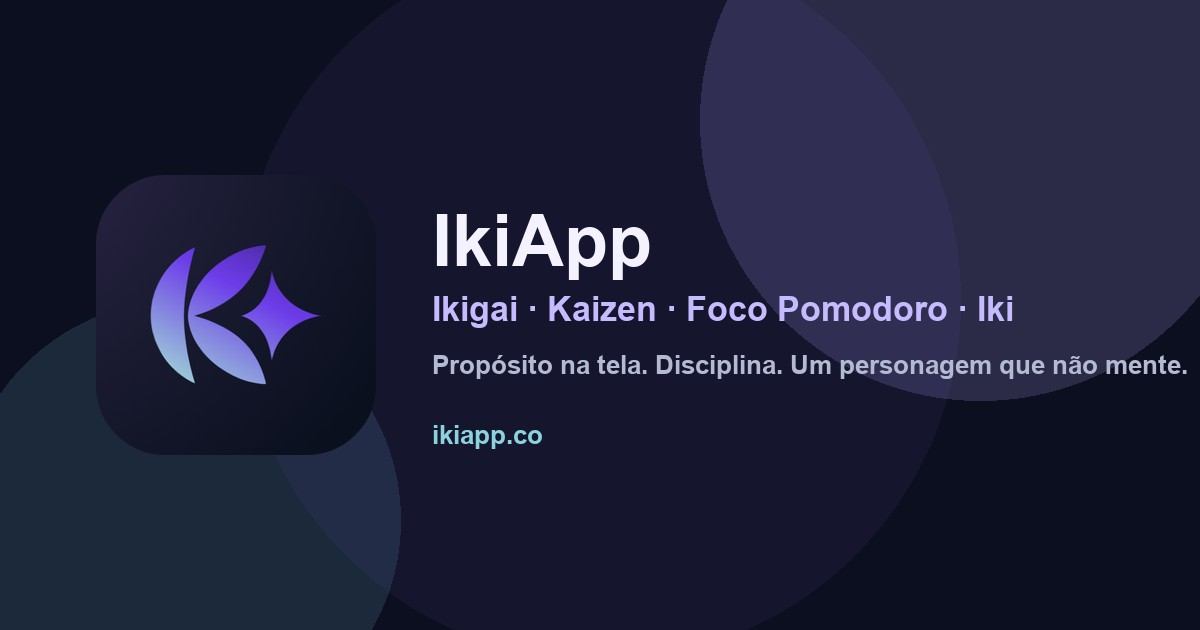
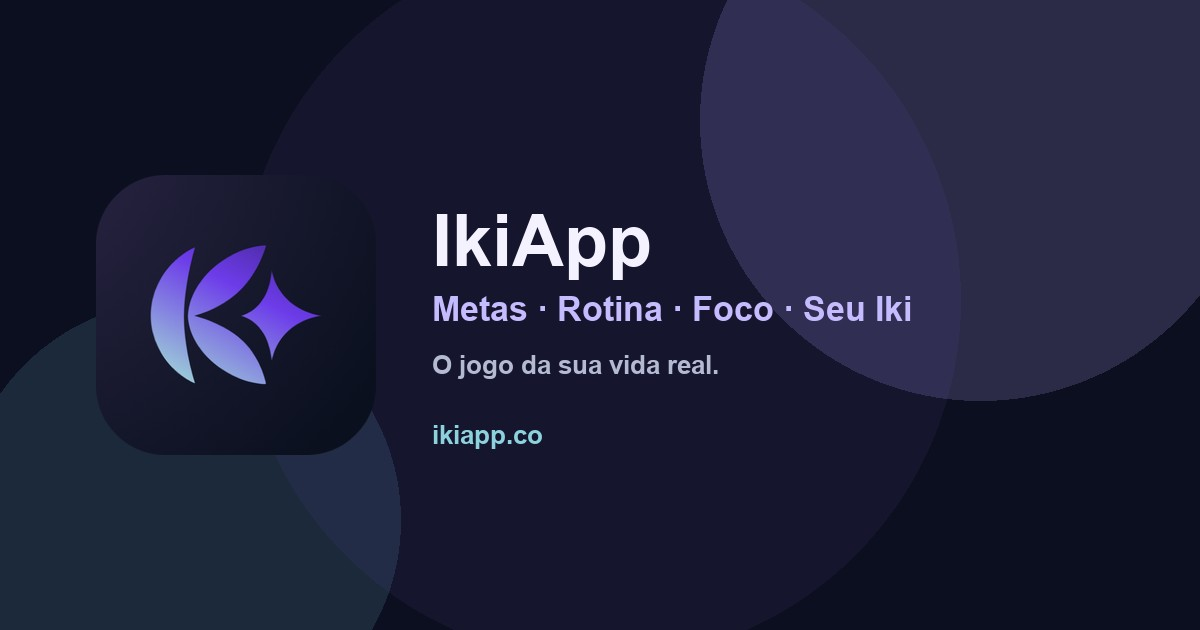
Atualiza a thumb de compartilhamento para a copy da LP.

Changed region(s): [[0.37, 0.4524, 0.8633, 0.5127], [0.3392, 0.5429, 0.9867, 0.6032]]

diff --git a/IkiApp/index.html b/IkiApp/index.html
@@ -73,8 +73,8 @@
       property="og:description"
       content="IkiApp transforma sua rotina em um jogo. Organize suas metas, mantenha o foco e evolua um personagem virtual que cresce com a sua disciplina, mas some quando você procrastina. App 100% gratuito."
     />
-    <meta property="og:image" content="https://www.ikiapp.co/og-image.jpg" />
-    <meta property="og:image:secure_url" content="https://www.ikiapp.co/og-image.jpg" />
+    <meta property="og:image" content="https://www.ikiapp.co/og-image.jpg?v=iki-17" />
+    <meta property="og:image:secure_url" content="https://www.ikiapp.co/og-image.jpg?v=iki-17" />
     <meta property="og:image:type" content="image/jpeg" />
     <meta property="og:image:width" content="1200" />
     <meta property="og:image:height" content="630" />
@@ -90,7 +90,7 @@
       name="twitter:description"
       content="IkiApp transforma sua rotina em um jogo. Organize suas metas, mantenha o foco e evolua um personagem virtual que cresce com a sua disciplina, mas some quando você procrastina. App 100% gratuito."
     />
-    <meta name="twitter:image" content="https://www.ikiapp.co/og-image.jpg" />
+    <meta name="twitter:image" content="https://www.ikiapp.co/og-image.jpg?v=iki-17" />
     <meta
       name="twitter:image:alt"
       content="IkiApp — O Jogo da Sua Vida Real"
@@ -159,8 +159,8 @@
             "applicationSubCategory": "HabitTracker",
             "operatingSystem": "Web, iOS, Android",
             "url": "https://app.ikiapp.co/",
-            "image": "https://www.ikiapp.co/og-image.jpg",
-            "screenshot": "https://www.ikiapp.co/og-image.jpg",
+            "image": "https://www.ikiapp.co/og-image.jpg?v=iki-17",
+            "screenshot": "https://www.ikiapp.co/og-image.jpg?v=iki-17",
             "description": "IkiApp transforma sua rotina em um jogo. Organize suas metas, mantenha o foco e evolua um personagem virtual que cresce com a sua disciplina, mas some quando você procrastina. App 100% gratuito.",
             "inLanguage": "pt-BR",
             "offers": {
@@ -189,7 +189,7 @@
             "about": { "@id": "https://www.ikiapp.co/#app" },
             "primaryImageOfPage": {
               "@type": "ImageObject",
-              "url": "https://www.ikiapp.co/og-image.jpg",
+              "url": "https://www.ikiapp.co/og-image.jpg?v=iki-17",
               "width": 1200,
               "height": 630
             },
